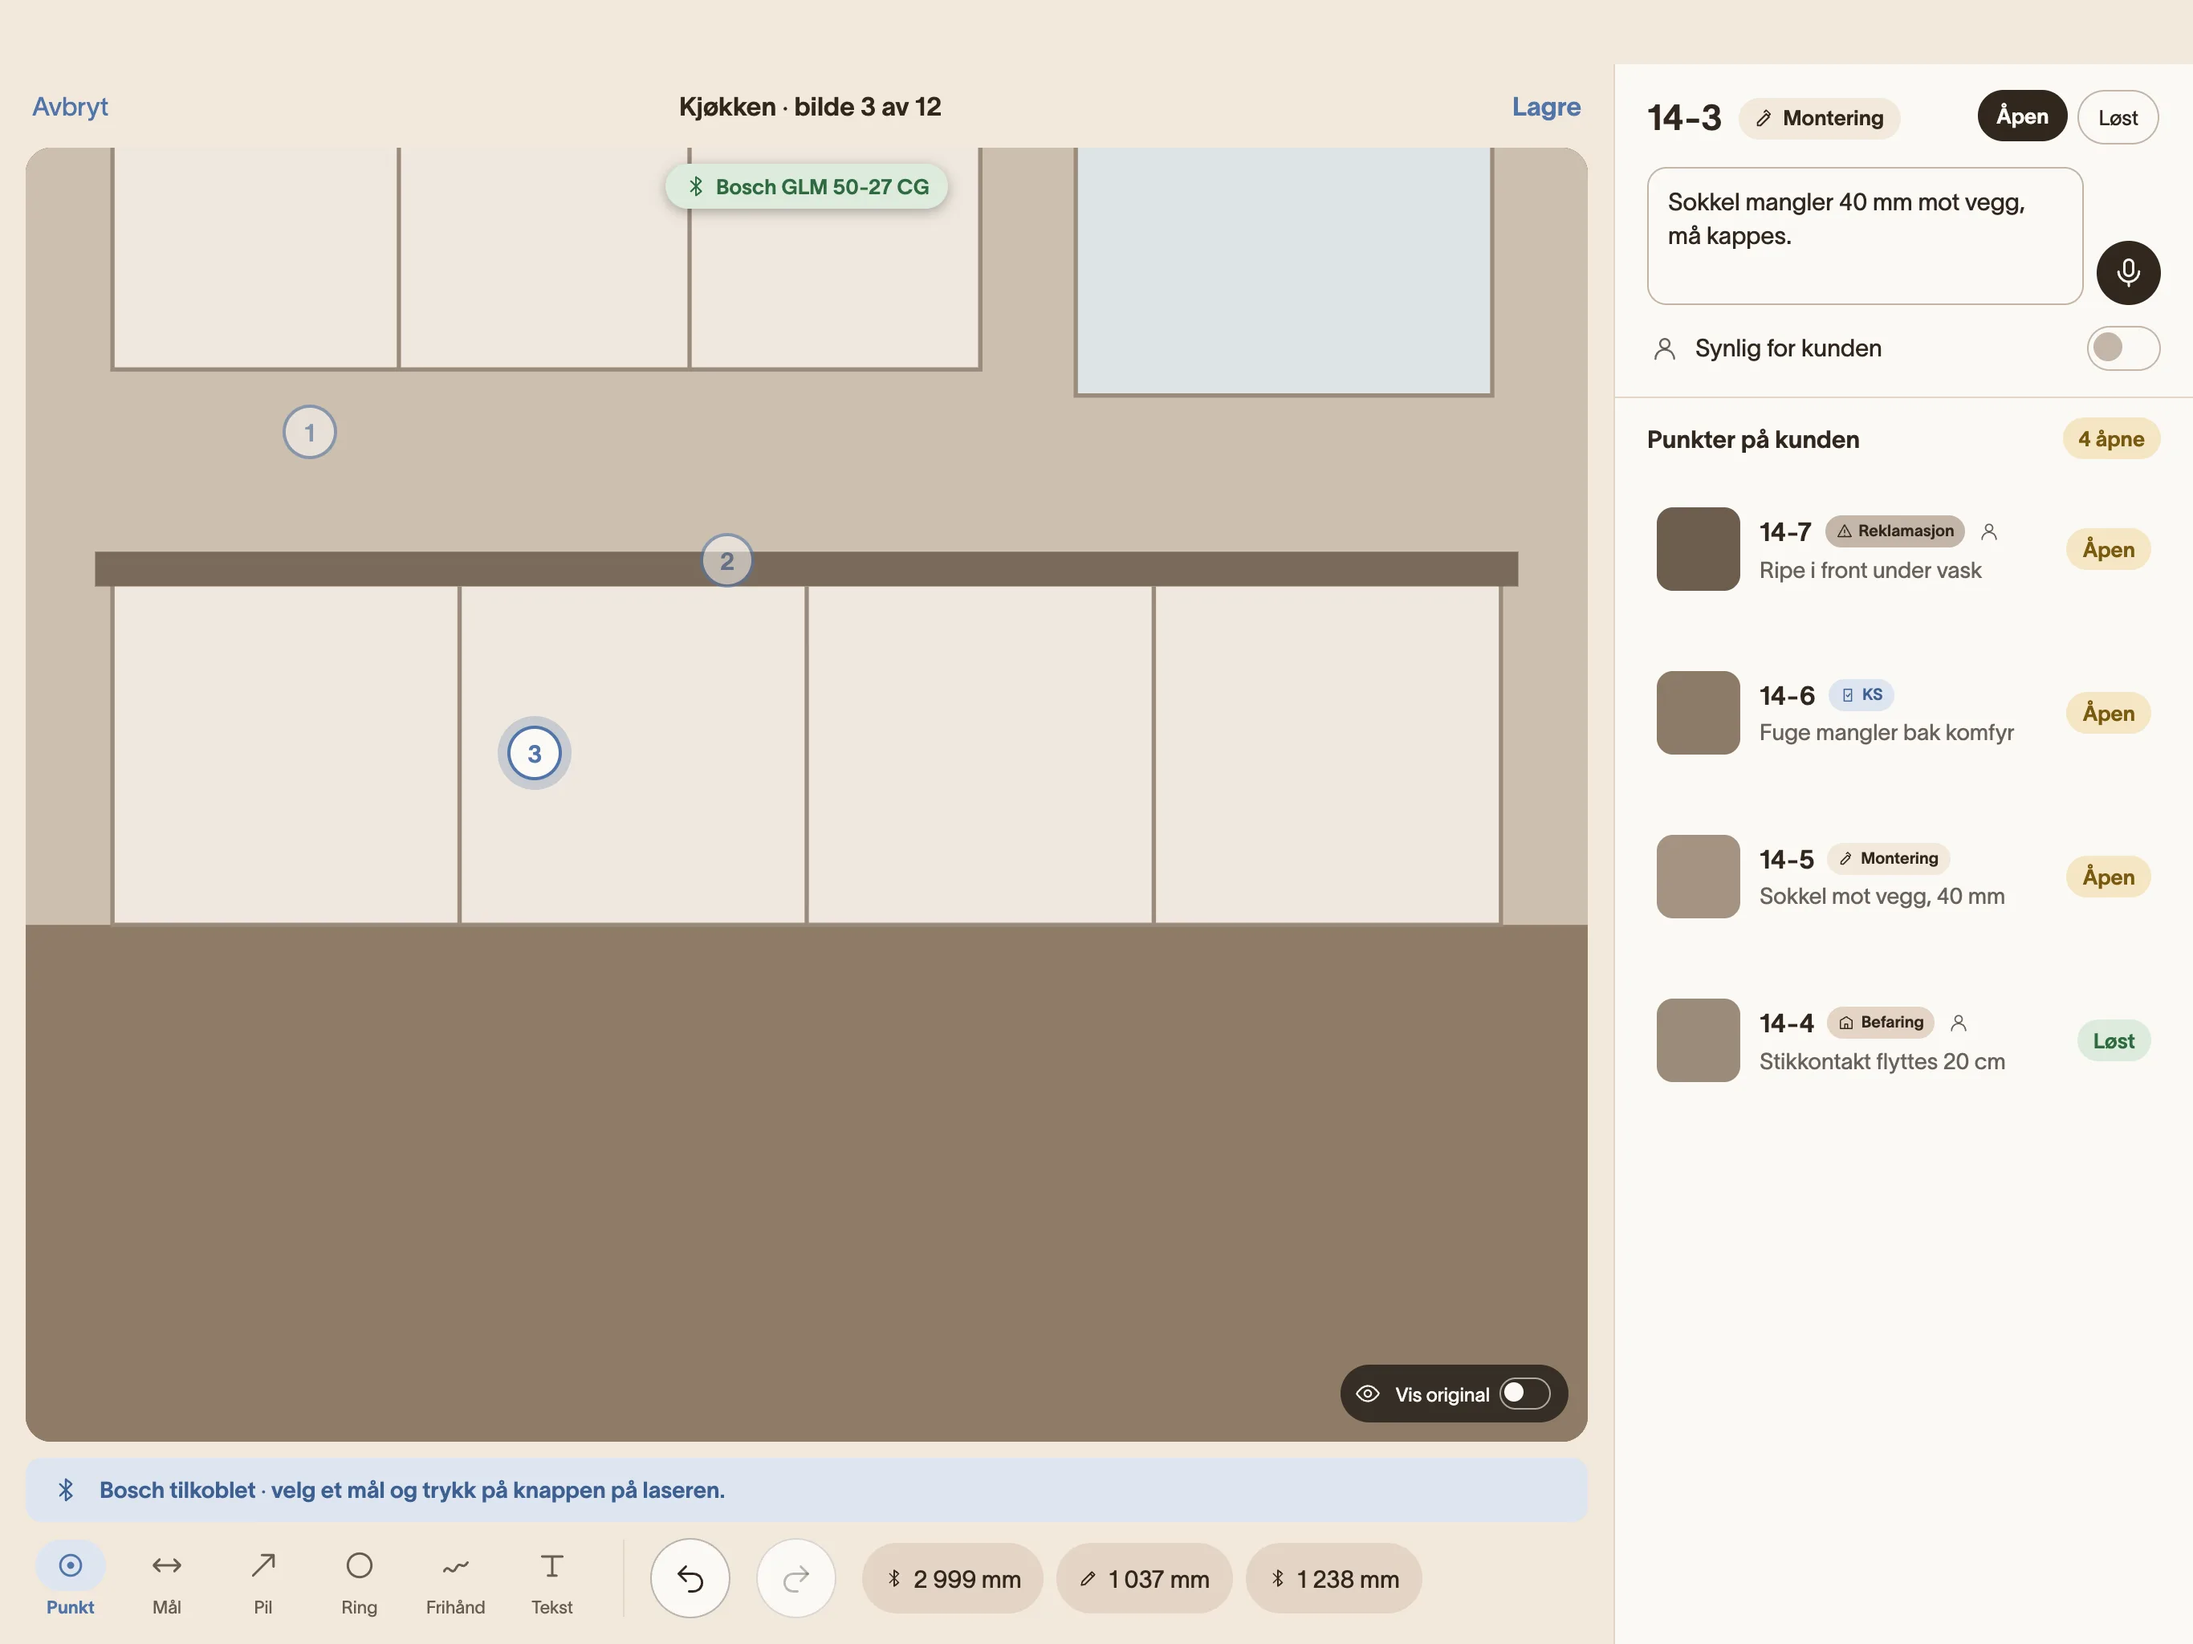
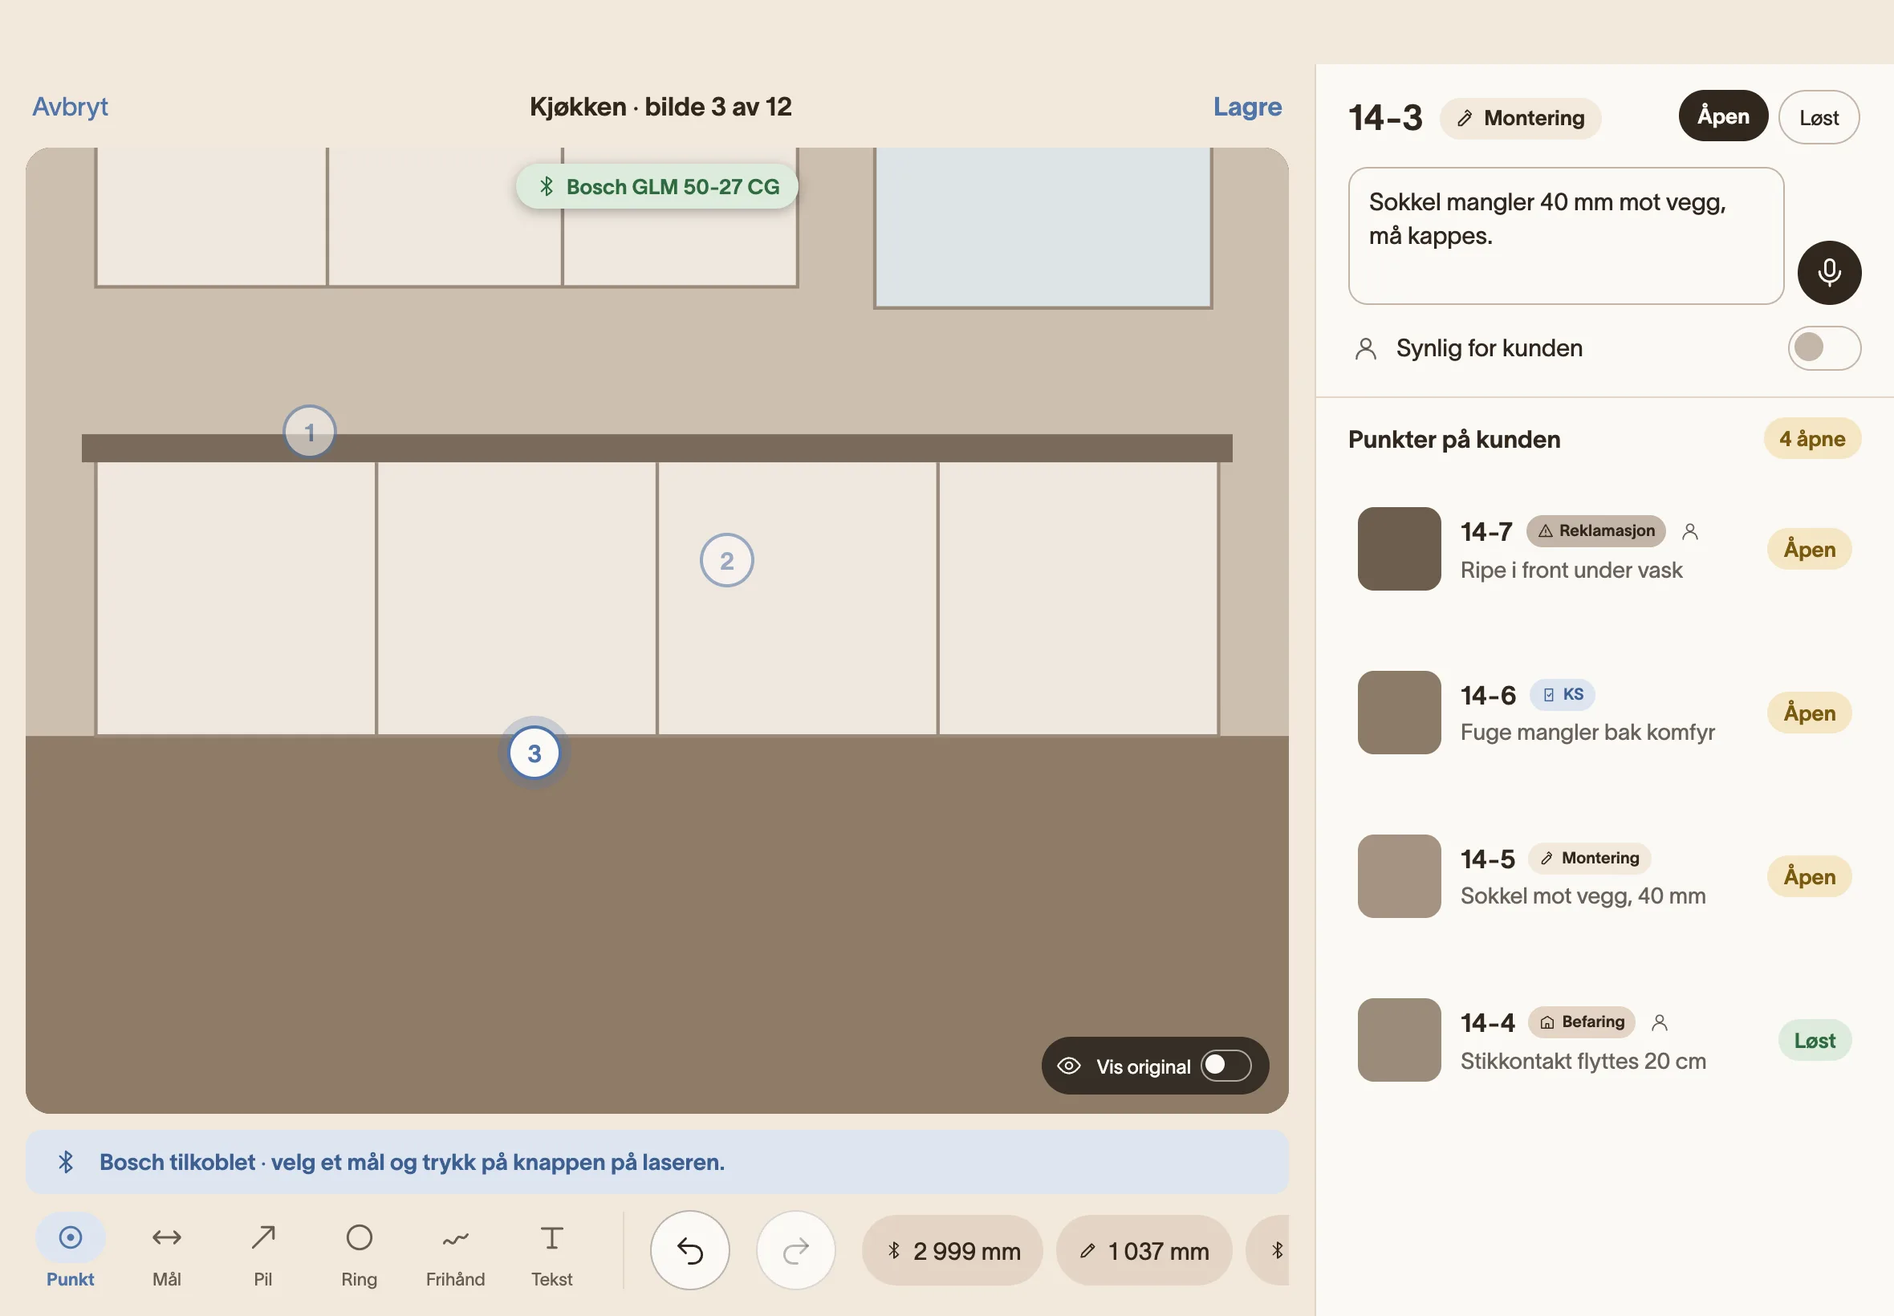
vis: iPad-bildene i 2360×1640 (iPad Air 11″) tilbake, ipad13/ ikke brukt
ipad-liggende.png er en iPad Air 11″-ramme (hull 2160×1502, 1,44:1): crm-ipad-* fra pakke v3 og
ute-ipad-bildeverktoy fra pakke v4 fyller hullet uten klipp. display/ i Studio Display står.

Claude-Session: https://claude.ai/code/session_01XUX8fkzkTEqWReZM1iEFk5

diff --git a/sites/vis/src/assets/enhet.css b/sites/vis/src/assets/enhet.css
@@ -4,7 +4,7 @@
    Skjermhull i prosent av rammens bredde/høyde (left, top, width, height) og hjørneradius:
    - Studio Display (.pc-ramme)  2160 × 1664: 2.59 · 3.37 · 94.81 · 69.23, radius 1.2 % / 1.6 %, skjermen er 1920 × 1080
    - iPhone 18 (.tlf)            1174 × 2400: 5.37 · 2.50 · 89.27 · 95.00, radius 14 % / 6.1 %, skjermen er 1206 × 2622, ingen statuslinje (rammen har island)
-   - iPad liggende (.ipad-ramme) 2400 × 1740: 5.00 · 6.84 · 90.00 · 86.32, radius 1.2 % / 1.6 %, skjermen er 2732 × 2048
+   - iPad liggende (.ipad-ramme) 2400 × 1740: 5.00 · 6.84 · 90.00 · 86.32, radius 1.2 % / 1.6 %, skjermen er 2360 × 1640 (iPad Air 11″, 1,44:1)
    - MacBook (.mac-ramme)        2400 × 1565: 12.63 · 14.19 · 74.75 · 71.63, radius 1 % / 1.4 %, skjermen er 2408 × 1506
    Rammene brukes aldri mindre enn 200 px høye. Det finnes ingen stående iPad-ramme, så stående iPad-bilder brukes ikke. */
 :root{--skjermbunn:#F2E9DB}

diff --git a/sites/vis/README.md b/sites/vis/README.md
@@ -25,12 +25,12 @@ Alle skjermbilder vises i Apples Product Bezels (`src/assets/rammer/*.webp`, gje
 |---|---|---|---|---|
 | Studio Display | `studio-display.webp` (2160/1664) | 2.59 · 3.37 · 94.81 · 69.23 | 1.2 % / 1.6 % | 1920 × 1080 |
 | iPhone 18 | `iphone-18.webp` (1174/2400) | 5.37 · 2.50 · 89.27 · 95.00 | 14 % / 6.1 % | 1206 × 2622, ingen statuslinje (rammen har island) |
-| iPad liggende | `ipad-liggende.webp` (2400/1740) | 5.00 · 6.84 · 90.00 · 86.32 | 1.2 % / 1.6 % | 2732 × 2048 |
+| iPad liggende | `ipad-liggende.webp` (2400/1740) | 5.00 · 6.84 · 90.00 · 86.32 | 1.2 % / 1.6 % | 2360 × 1640 (iPad Air 11″) |
 | MacBook | `macbook.webp` (2400/1565) | 12.63 · 14.19 · 74.75 · 71.63 | 1 % / 1.4 % | 2408 × 1506 |
 
 - Rammene er minst 200 px høye, også på mobil (de faller ikke lenger bort). Tekst står ved siden av, ikke oppå. Flere enheter sammen i riktig størrelsesforhold (hero: telefonen er ca. 40 % av Studio Display-rammens høyde).
 - Romkort og flater på forsiden er ferdige bilder (`scripts/lib/rammer.mjs`): `npm run rammer:vis` (rom og flater med skjermbilder fra designfilene) og `npm run skjermbilder:vis` (rom uten: rommet selv i Studio Display). Kortbildet er 4:3 i `--soft` og viser hele enheten (3 kort i bredden på PC, 2 på iPad, 1 på mobil); flatene «Slik henger det sammen» er 2 i bredden. Dokumentene (`/dokumenter/`) er A4-ark uten ramme.
-- Pakke v3 (11.10, `delt/pakke-v3` på grenen `pakke-v3`) erstatter v1 og v2: `pc/` (2880 × 1800, brukes i både Studio Display og MacBook, så MacBook-bildene har ikke lenger prefikset `mb-`), `ios/` (iPhone 1206 × 2622 uten statuslinje, `ute-typeskilt` er 1170 × 2532) og `crm-ipad-*` (2360 × 1640, 1,44:1). Bildene som ikke er med i v3 (`crm-tilbud-kunde`, `crm-ordre-kontrollmal`, `crm-moduler`, `crm-mal-skisser`, `portal-*`, `crm-tlf-*`, `ute-ipad-*`) er fra v2 eller forrige eksport. Pakke v4 (11.10, `delt/pakke-v4`) erstatter `crm-tilbud`, `crm-tilbud-kunde`, `crm-ordre-kontrollmal` og `portal-tilbud` og legger til `kundeportal-pc`, `portal-levering` (K10), `portal-montering` (K12), `portal-fdv` (K14) og `ute-ipad-bildeverktoy` (2360 × 1640). De gamle portalbildene (`portal-*` på PC og `portal-tlf-*`) og `kundeportal-k04` (= `portal-tilbud`) er fjernet, og `crm-montasje` (v3, viser kontrollmål) er ikke brukt. Pakke v5 (11.10, `delt/pakke-v5`) legger til `crm-montasje` (Mer › Montasje › Montasjeplan, uke 42), `ute-i-dag` og `ute-ks` (Kari Nordmann og Ola, hele logoen, uten den buede streken). Det gamle v3-bildet av `crm-montasje` (kontrollmål) er erstattet. Andre ute-bilder fra fil 36 (`ute-jobb-under`, `ute-laser`, `ute-punkter`, `ute-punktkort`, `ute-avvik`, `ute-ferdig`, `ute-ks-kamera`, `ute-typeskilt`) kan ha de gamle navnene. Pakke v6 (11.10, `delt/pakke-v6`) gir egne bilder til rammene: `display/` (2560 × 1440, 16:9) til Studio Display og `ipad13/` (2732 × 2048, 4:3) til iPad Air 13″. De har samme navn som `pc/`- og `ios/`-bildene og erstatter dem i Studio Display og iPad (`crm-ipad-*` og `ute-ipad-bildeverktoy` i 2360 × 1640 var iPad Air 11″). `pc/` (16:10) gjelder bare MacBook; de to MacBook-bildene som brukes (forside, Leverandøren) ligger som `mb-crm-ordre-kontrollmal` og `mb-crm-tilbud-kunde`. Alle bildene fyller skjermhullet med `object-fit:cover; object-position:top`, uten annen tilpasning. Uten v6-versjon (16:10 i Studio Display, bunnen beskjæres): `crm-moduler` og `crm-mal-skisser`.
+- Pakke v3 (11.10, `delt/pakke-v3` på grenen `pakke-v3`) erstatter v1 og v2: `pc/` (2880 × 1800, brukes i både Studio Display og MacBook, så MacBook-bildene har ikke lenger prefikset `mb-`), `ios/` (iPhone 1206 × 2622 uten statuslinje, `ute-typeskilt` er 1170 × 2532) og `crm-ipad-*` (2360 × 1640, 1,44:1). Bildene som ikke er med i v3 (`crm-tilbud-kunde`, `crm-ordre-kontrollmal`, `crm-moduler`, `crm-mal-skisser`, `portal-*`, `crm-tlf-*`, `ute-ipad-*`) er fra v2 eller forrige eksport. Pakke v4 (11.10, `delt/pakke-v4`) erstatter `crm-tilbud`, `crm-tilbud-kunde`, `crm-ordre-kontrollmal` og `portal-tilbud` og legger til `kundeportal-pc`, `portal-levering` (K10), `portal-montering` (K12), `portal-fdv` (K14) og `ute-ipad-bildeverktoy` (2360 × 1640). De gamle portalbildene (`portal-*` på PC og `portal-tlf-*`) og `kundeportal-k04` (= `portal-tilbud`) er fjernet, og `crm-montasje` (v3, viser kontrollmål) er ikke brukt. Pakke v5 (11.10, `delt/pakke-v5`) legger til `crm-montasje` (Mer › Montasje › Montasjeplan, uke 42), `ute-i-dag` og `ute-ks` (Kari Nordmann og Ola, hele logoen, uten den buede streken). Det gamle v3-bildet av `crm-montasje` (kontrollmål) er erstattet. Andre ute-bilder fra fil 36 (`ute-jobb-under`, `ute-laser`, `ute-punkter`, `ute-punktkort`, `ute-avvik`, `ute-ferdig`, `ute-ks-kamera`, `ute-typeskilt`) kan ha de gamle navnene. Pakke v6 (11.10, `delt/pakke-v6`) gir egne bilder til rammene: `display/` (2560 × 1440, 16:9) til Studio Display (`ipad13/` er for iPad Air 13″ og brukes ikke). `ipad-liggende.png` er en iPad Air 11″-ramme (hull 2160 × 1502, 1,44:1), så iPad-bildene er de på 2360 × 1640: `crm-ipad-*` fra v3 og `ute-ipad-bildeverktoy` fra v4. `display/` erstatter pc/-bildene med samme navn i Studio Display. `pc/` (16:10) gjelder bare MacBook; de to MacBook-bildene som brukes (forside, Leverandøren) ligger som `mb-crm-ordre-kontrollmal` og `mb-crm-tilbud-kunde`. Alle bildene fyller skjermhullet med `object-fit:cover; object-position:top`, uten annen tilpasning. Uten v6-versjon (16:10 i Studio Display, bunnen beskjæres): `crm-moduler` og `crm-mal-skisser`.
 - Ikke brukt: `iphone-aapen` (én skjerm 7:10, venter på egne bilder) og de nye rammene `iphone-18-liggende`, `iphone`, `iphone-liggende`, `iphone-aapen-liggende` og `ipad-staaende` (ingen bilder til dem). `kundeportal-k03/k06/k08` brukes i Kundens reise, Min side, romkort og flater.
 
 - `ute-*`-bildene kommer fra `ute-vis.zip` (10.10, fra designfilene, uten merkenavn): iPhone 780 × 1688 (390 × 844 i 2×) og `ute-ipad-bildeverktoy` 2360 × 1640 (1180 × 820). De har egen statuslinje (09.41), dynamic island og hjemindikator, så rammene (`.tlf.hel`, iPad) legger ikke på noen: telefonrammen gir plass til hele 390 × 844-skjermen. CRM-bildene fra `crm-sju-vis.zip` (1440 bred, 2×): `crm-min-dag`, `crm-bestilling`, `crm-montasje`, `crm-etterkalkyle`, `crm-salgstavla`, `crm-saker`, `crm-resultater` (2880 × 1800) og `crm-min-dag-800` (Min dag i iPad-ramme; den tegnede kanten på 24 px er beskåret bort, 2360 × 1640, brukt som første iPad-bilde i Prøv CRM). `crm-leder-oversikt` og `crm-leder-start` er slettet (erstattet av `crm-resultater` og `crm-salgstavla`).
